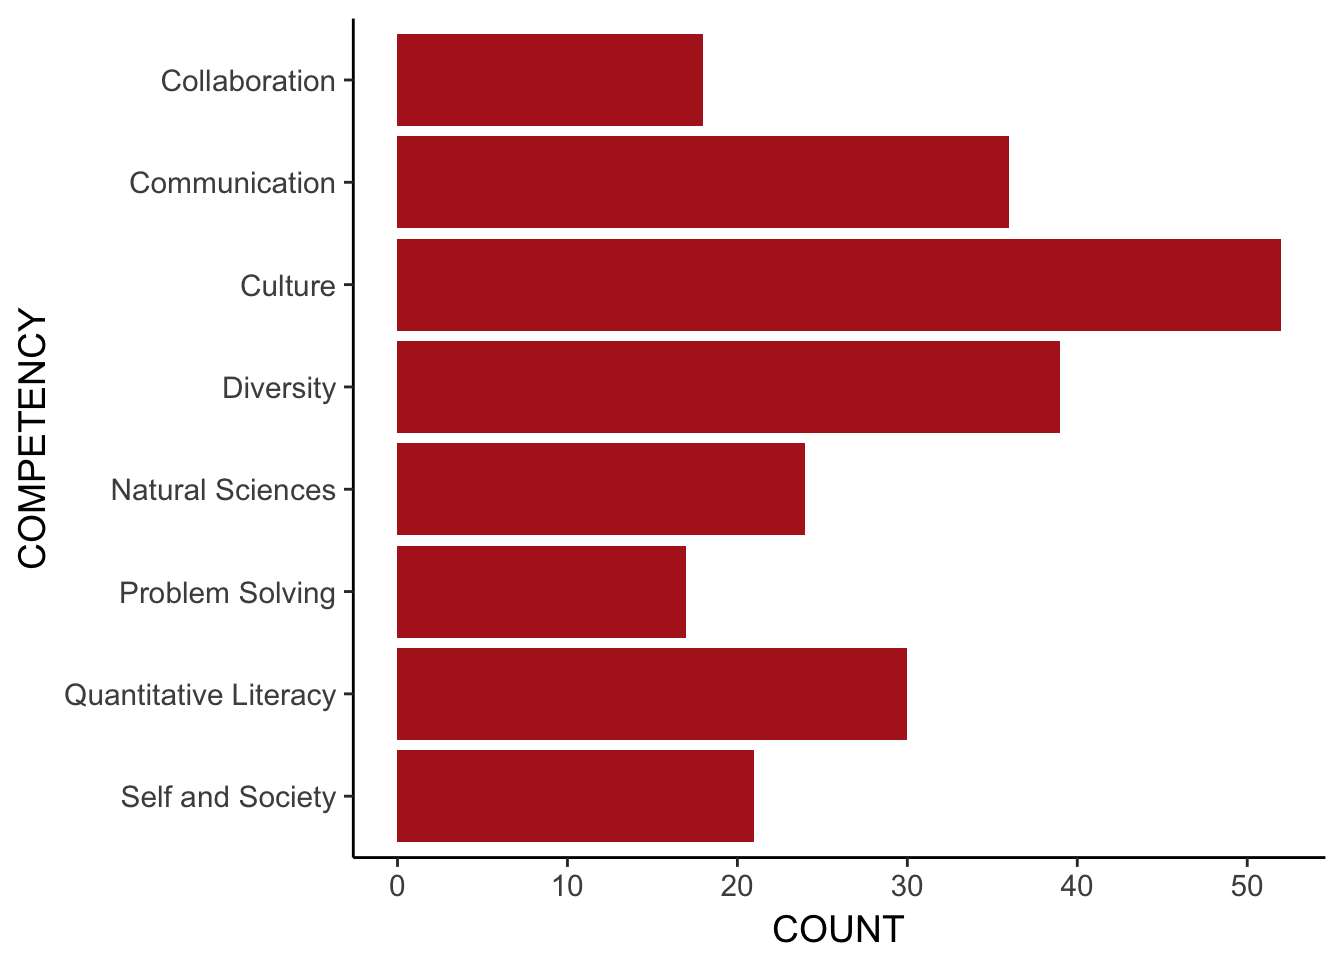
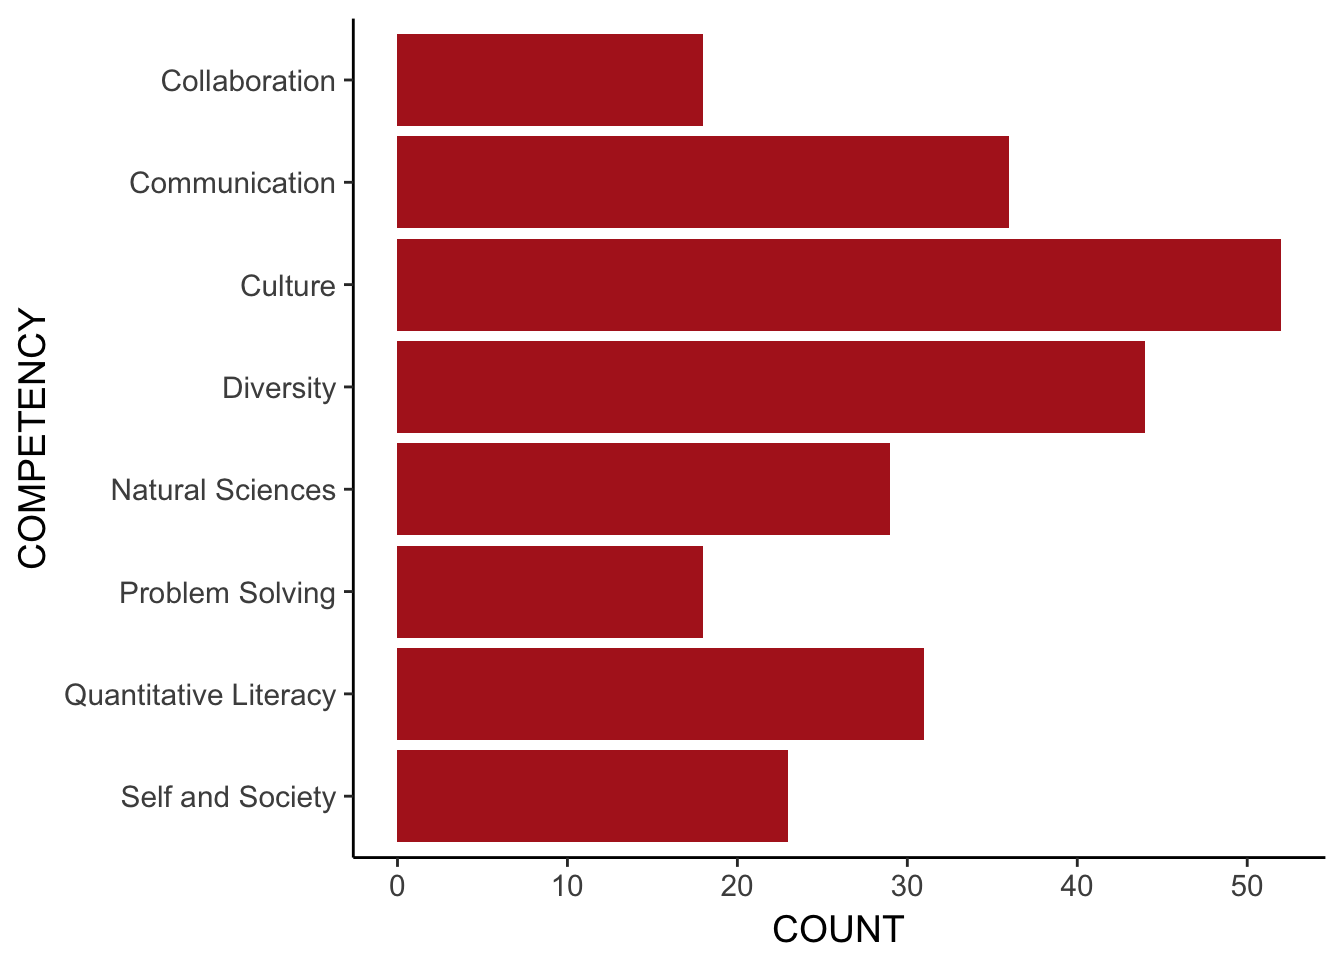
Adding info about the data file with a link

diff --git a/docs/methods.html b/docs/methods.html
@@ -80,7 +80,7 @@
 <li class="chapter" data-level="" data-path="methods.html"><a href="methods.html#citation-of-this-work"><i class="fa fa-check"></i>Citation of this work</a></li>
 </ul></li>
 <li class="chapter" data-level="" data-path="methods.html"><a href="methods.html#googlesheets"><i class="fa fa-check"></i>Retrieving the registration data</a></li>
-<li class="chapter" data-level="" data-path="methods.html"><a href="methods.html#analysis"><i class="fa fa-check"></i>Analysis</a></li>
+<li class="chapter" data-level="" data-path="methods.html"><a href="methods.html#data"><i class="fa fa-check"></i>Data collection</a></li>
 </ul></li>
 <li class="chapter" data-level="" data-path="results.html"><a href="results.html"><i class="fa fa-check"></i>Results and Discussion</a><ul>
 <li class="chapter" data-level="" data-path="results.html"><a href="results.html#summary"><i class="fa fa-check"></i>Summary statistics</a></li>
@@ -145,8 +145,9 @@
 <div id="googlesheets" class="section level2 unnumbered">
 <h2>Retrieving the registration data</h2>
 </div>
-<div id="analysis" class="section level2 unnumbered">
-<h2>Analysis</h2>
+<div id="data" class="section level2 unnumbered">
+<h2>Data collection</h2>
+<p>All registration records for the fall of 2017 were collated and de-identified. The data file, ‘registrations.csv’, contains only the course name (e.g. BIOL 101), the core competency (e.g. Natural Sciences), and the standardized measure (e.g. Selected Response Exam). The datafile is <a href="%22./data/registrations.csv%22">available here</a>.</p>
 </div>
 </div>
 <div id="disqus_thread"></div>

diff --git a/docs/results.html b/docs/results.html
@@ -80,7 +80,7 @@
 <li class="chapter" data-level="" data-path="methods.html"><a href="methods.html#citation-of-this-work"><i class="fa fa-check"></i>Citation of this work</a></li>
 </ul></li>
 <li class="chapter" data-level="" data-path="methods.html"><a href="methods.html#googlesheets"><i class="fa fa-check"></i>Retrieving the registration data</a></li>
-<li class="chapter" data-level="" data-path="methods.html"><a href="methods.html#analysis"><i class="fa fa-check"></i>Analysis</a></li>
+<li class="chapter" data-level="" data-path="methods.html"><a href="methods.html#data"><i class="fa fa-check"></i>Data collection</a></li>
 </ul></li>
 <li class="chapter" data-level="" data-path="results.html"><a href="results.html"><i class="fa fa-check"></i>Results and Discussion</a><ul>
 <li class="chapter" data-level="" data-path="results.html"><a href="results.html#summary"><i class="fa fa-check"></i>Summary statistics</a></li>
@@ -109,7 +109,7 @@
             <section class="normal" id="section-">
 <div id="results" class="section level1 unnumbered">
 <h1>Results and Discussion</h1>
-<p>A total of 237 registrations have been completed as of October 02, 2017. This includes a total of 122 different courses.</p>
+<p>A total of 251 registrations have been completed as of October 05, 2017. This includes a total of 128 different courses.</p>
 <div id="summary" class="section level2 unnumbered">
 <h2>Summary statistics</h2>
 </div>

diff --git a/docs/index.html b/docs/index.html
@@ -80,7 +80,7 @@
 <li class="chapter" data-level="" data-path="methods.html"><a href="methods.html#citation-of-this-work"><i class="fa fa-check"></i>Citation of this work</a></li>
 </ul></li>
 <li class="chapter" data-level="" data-path="methods.html"><a href="methods.html#googlesheets"><i class="fa fa-check"></i>Retrieving the registration data</a></li>
-<li class="chapter" data-level="" data-path="methods.html"><a href="methods.html#analysis"><i class="fa fa-check"></i>Analysis</a></li>
+<li class="chapter" data-level="" data-path="methods.html"><a href="methods.html#data"><i class="fa fa-check"></i>Data collection</a></li>
 </ul></li>
 <li class="chapter" data-level="" data-path="results.html"><a href="results.html"><i class="fa fa-check"></i>Results and Discussion</a><ul>
 <li class="chapter" data-level="" data-path="results.html"><a href="results.html#summary"><i class="fa fa-check"></i>Summary statistics</a></li>

diff --git a/docs/introduction.html b/docs/introduction.html
@@ -80,7 +80,7 @@
 <li class="chapter" data-level="" data-path="methods.html"><a href="methods.html#citation-of-this-work"><i class="fa fa-check"></i>Citation of this work</a></li>
 </ul></li>
 <li class="chapter" data-level="" data-path="methods.html"><a href="methods.html#googlesheets"><i class="fa fa-check"></i>Retrieving the registration data</a></li>
-<li class="chapter" data-level="" data-path="methods.html"><a href="methods.html#analysis"><i class="fa fa-check"></i>Analysis</a></li>
+<li class="chapter" data-level="" data-path="methods.html"><a href="methods.html#data"><i class="fa fa-check"></i>Data collection</a></li>
 </ul></li>
 <li class="chapter" data-level="" data-path="results.html"><a href="results.html"><i class="fa fa-check"></i>Results and Discussion</a><ul>
 <li class="chapter" data-level="" data-path="results.html"><a href="results.html#summary"><i class="fa fa-check"></i>Summary statistics</a></li>

diff --git a/docs/references.html b/docs/references.html
@@ -80,7 +80,7 @@
 <li class="chapter" data-level="" data-path="methods.html"><a href="methods.html#citation-of-this-work"><i class="fa fa-check"></i>Citation of this work</a></li>
 </ul></li>
 <li class="chapter" data-level="" data-path="methods.html"><a href="methods.html#googlesheets"><i class="fa fa-check"></i>Retrieving the registration data</a></li>
-<li class="chapter" data-level="" data-path="methods.html"><a href="methods.html#analysis"><i class="fa fa-check"></i>Analysis</a></li>
+<li class="chapter" data-level="" data-path="methods.html"><a href="methods.html#data"><i class="fa fa-check"></i>Data collection</a></li>
 </ul></li>
 <li class="chapter" data-level="" data-path="results.html"><a href="results.html"><i class="fa fa-check"></i>Results and Discussion</a><ul>
 <li class="chapter" data-level="" data-path="results.html"><a href="results.html#summary"><i class="fa fa-check"></i>Summary statistics</a></li>
